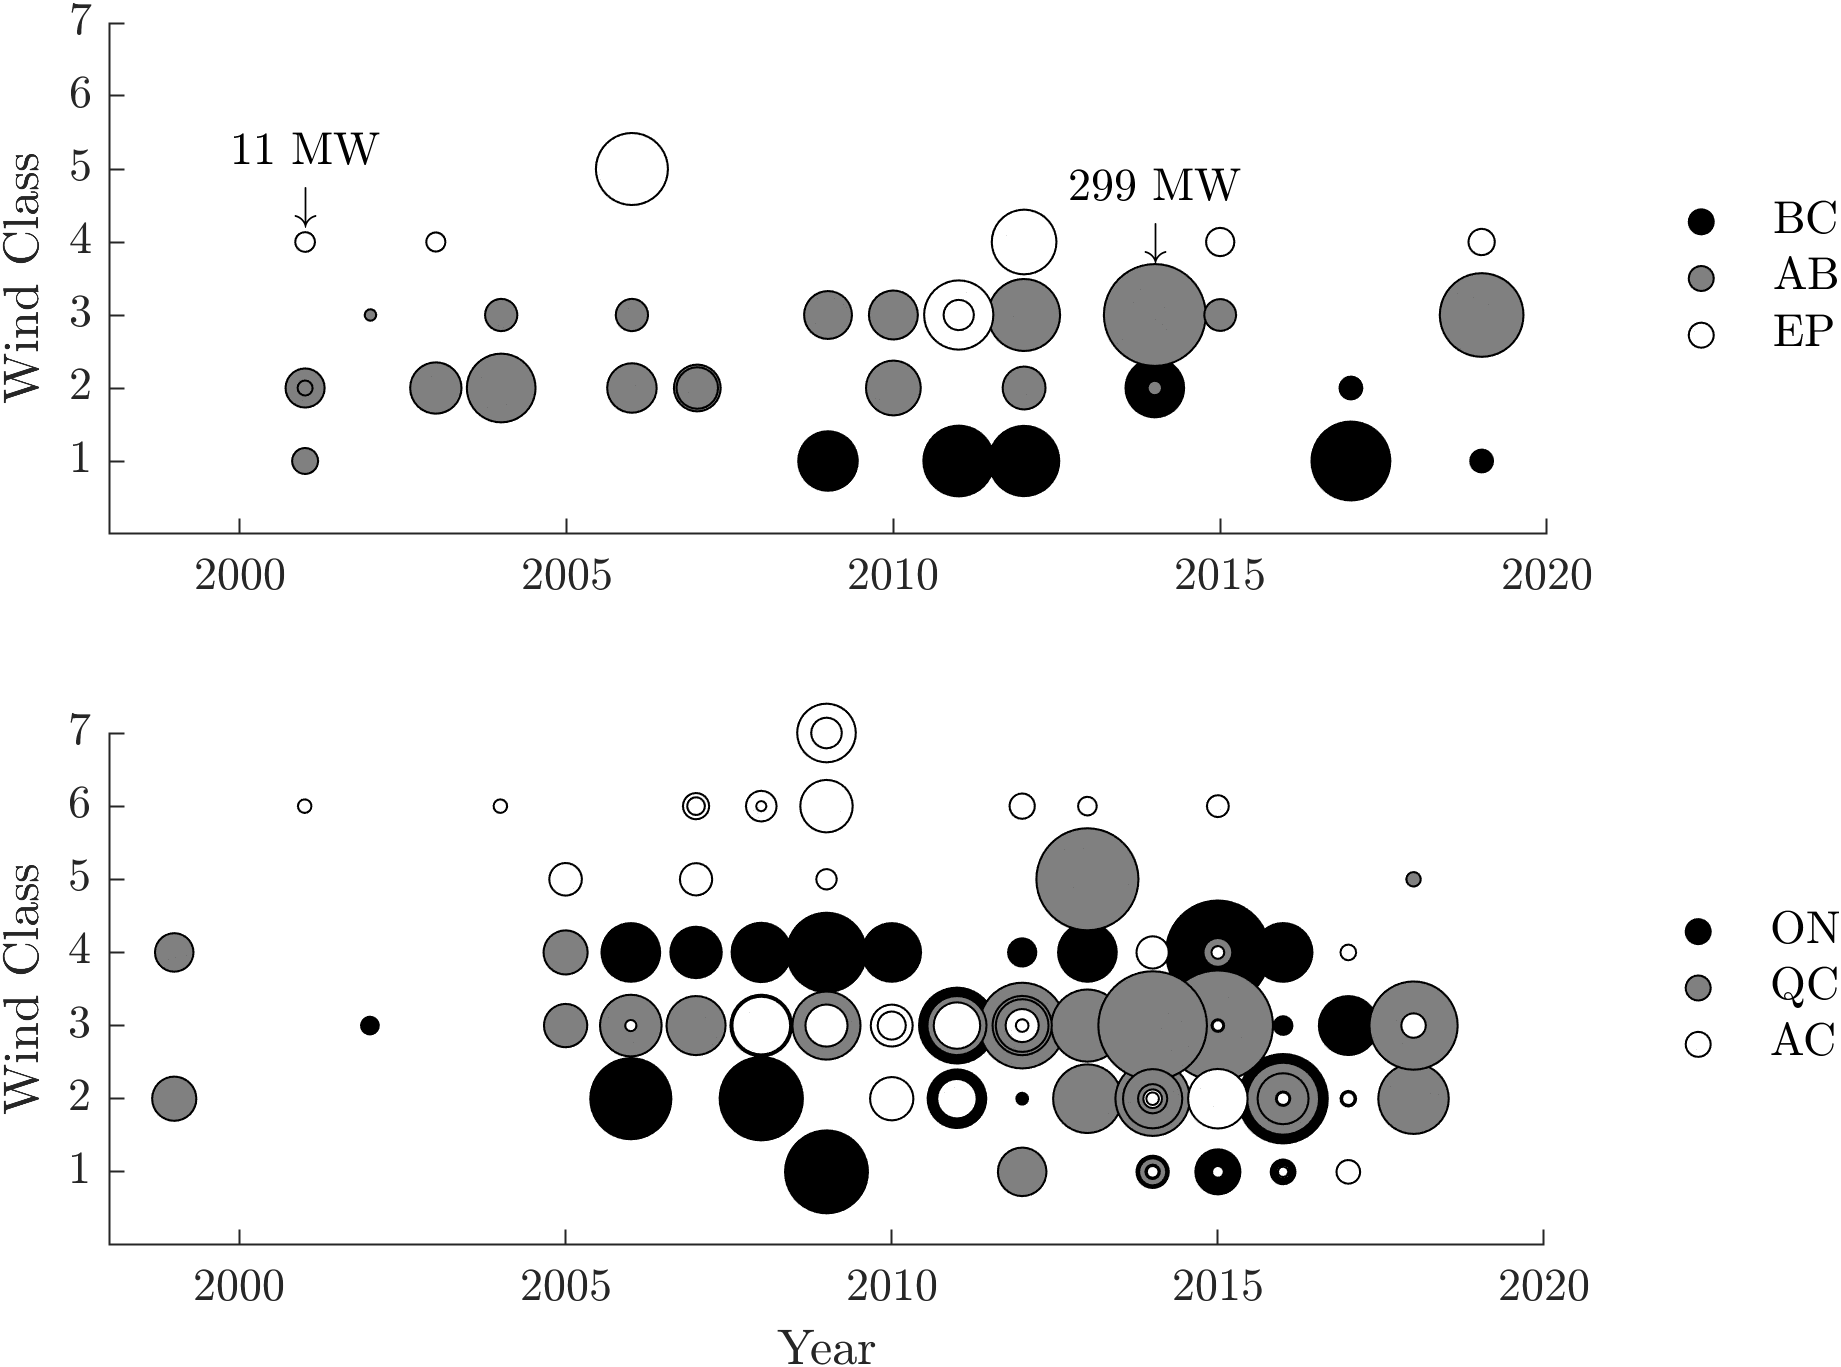
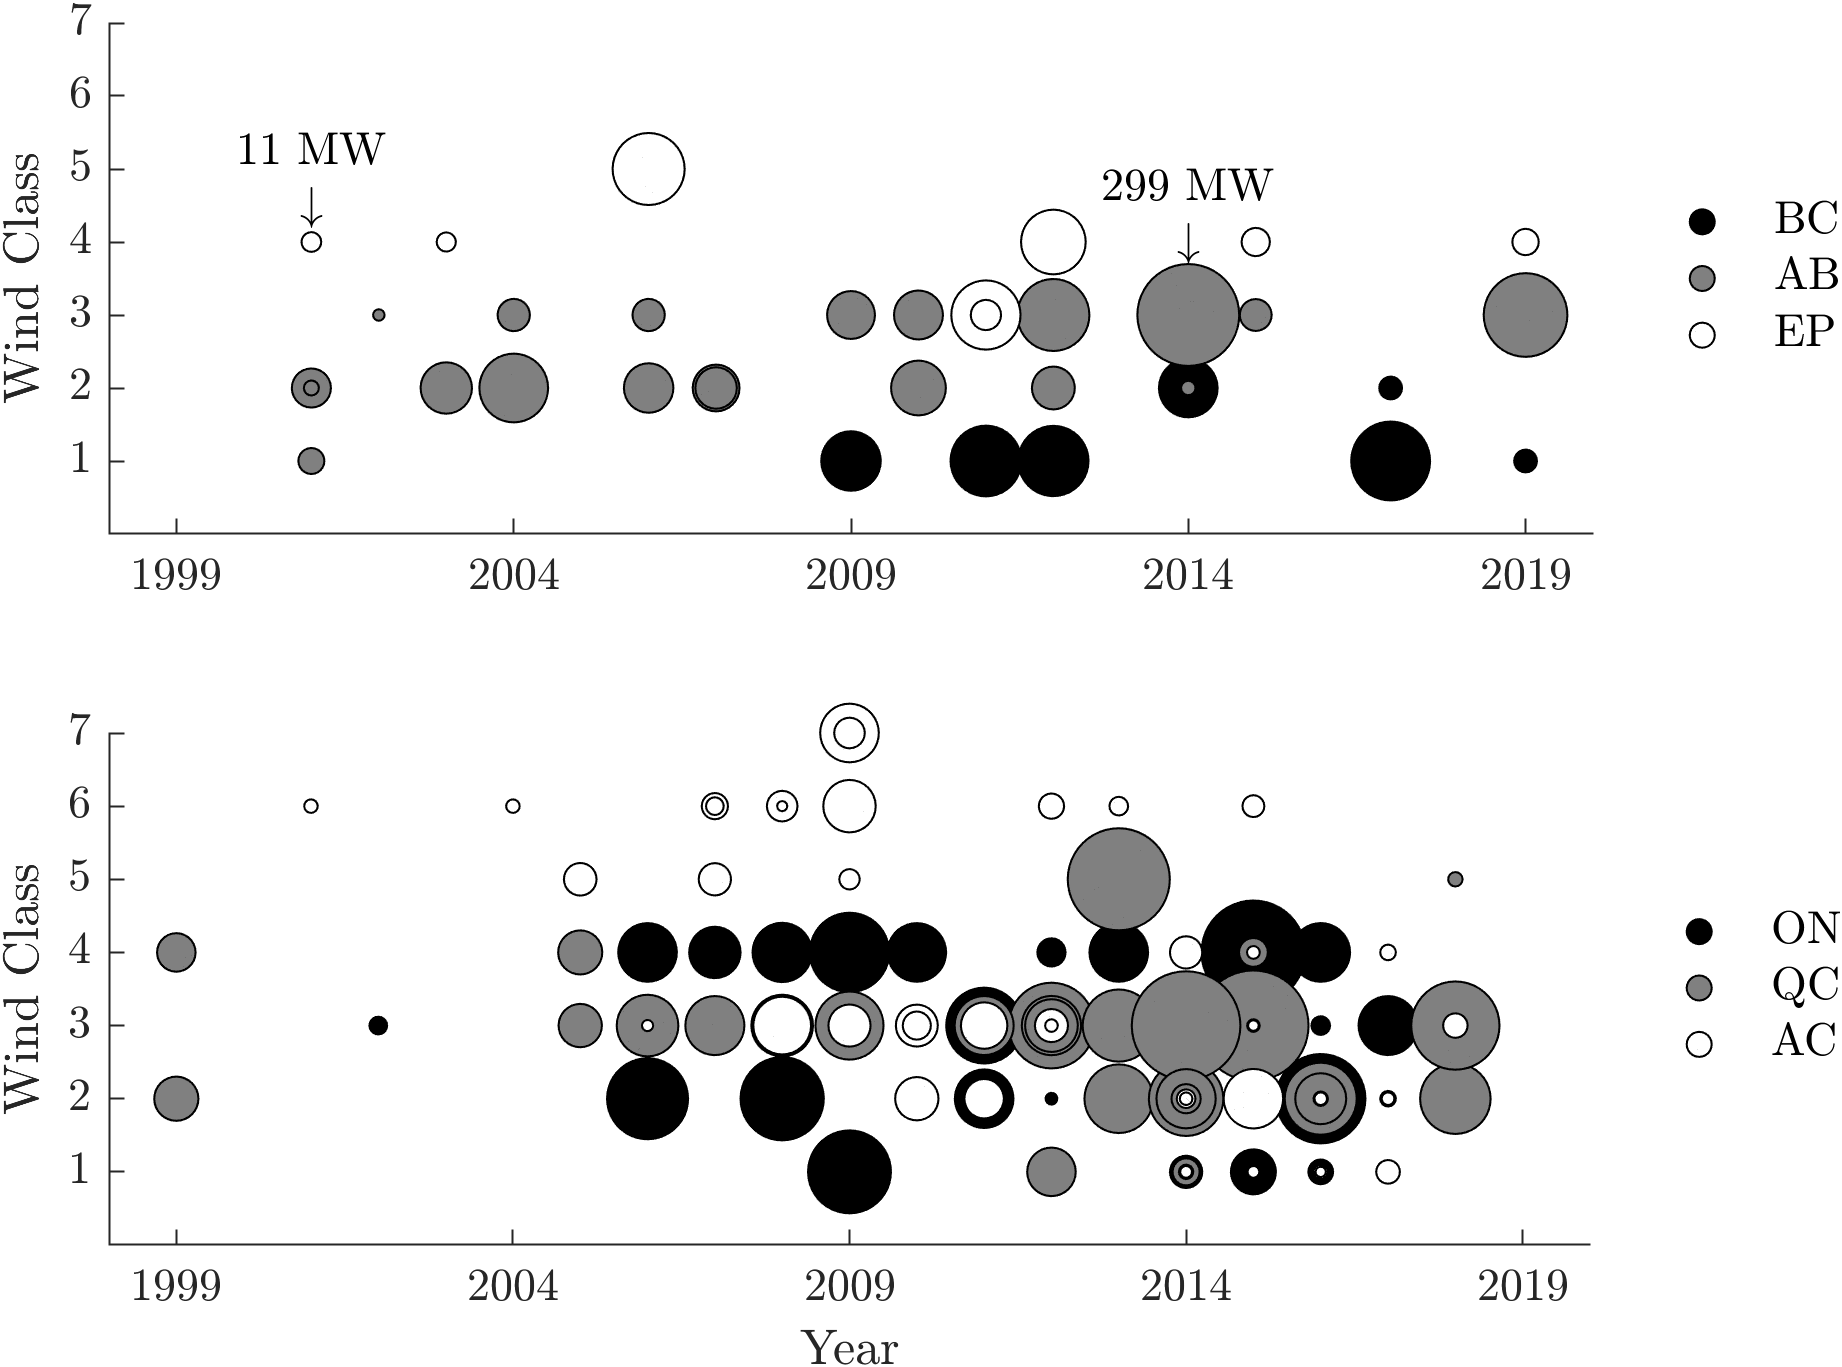
Fix xticks

diff --git a/June 2, 2020/capacity_per_windclass.m b/June 2, 2020/capacity_per_windclass.m
@@ -24,7 +24,7 @@ function capacity_per_windclass
 % See also: N/A
 % Author: Will Noel
 % email: wnoel@ualberta.ca
-% May 2020; Last revision: 22-May-2020
+% June 2020; Last revision: 09-July-2020
 %------------- BEGIN CODE --------------
 
 % Read in .csv datafile, extract data, close table
@@ -135,8 +135,8 @@ set(ax1,'FontSize',11);
 ylabel('Wind Class','Interpreter','latex','FontSize',12);
 xlim([1998 2020]);
 ylim([0 7]);
+xticks([1999 2004 2009 2014 2019]);
 yticks([1 2 3 4 5 6 7]);
-yticklabels({'1' '2' '3' '4' '5' '6' '7'});
 %title('Annual Installed Capacity by Wind Class and Province');
 legend('BC','AB','EP','location','eastoutside','Interpreter','latex',...
     'FontSize',11);
@@ -153,8 +153,8 @@ xlabel('Year','Interpreter','latex','FontSize',12);
 ylabel('Wind Class','Interpreter','latex','FontSize',12);
 xlim([1998 2020]);
 ylim([0 7]);
+xticks([1999 2004 2009 2014 2019]);
 yticks([1 2 3 4 5 6 7]);
-yticklabels({'1' '2' '3' '4' '5' '6' '7'});
 legend('ON','QC','AC','location','eastoutside','Interpreter','latex',...
     'FontSize',11);
 legend boxoff;
